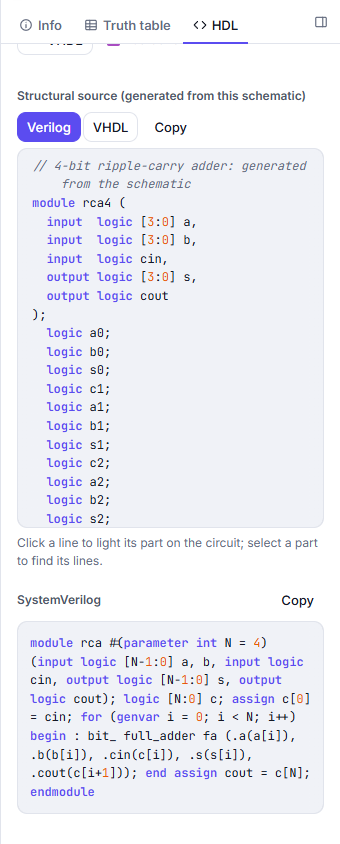
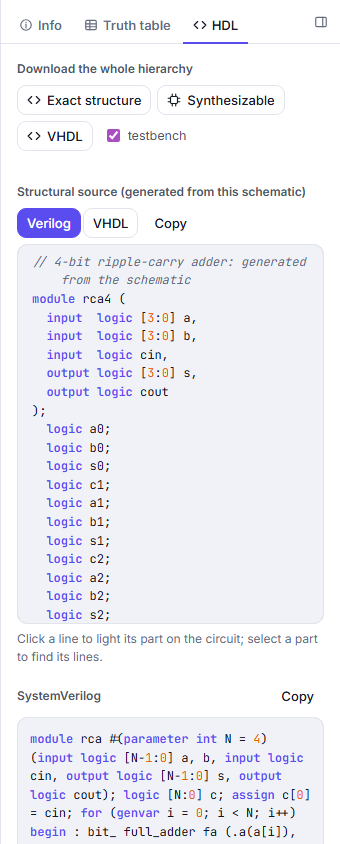
Manual, workbench: the HDL tab as it is (structural source, SystemVerilog, download buttons)

diff --git a/docs/manual/workbench.md b/docs/manual/workbench.md
@@ -302,8 +302,12 @@ Under **Info**:
 ### Read or copy its HDL
 
 1. Click **HDL** in the inspector.
-2. Choose **Exact structure** (gate for gate, as drawn) or **Synthesizable**, and **Verilog** or **VHDL**.
-3. Click **Copy** to put it on the clipboard.
+2. **Structural source (generated from this schematic)** is the part's netlist as Verilog, or click **VHDL**. Click a
+   line to light its part on the circuit, or select a part to find its lines. **Copy** puts it on the clipboard.
+3. Under it, some parts also have a hand-written **SystemVerilog** version, with its own **Copy**.
+4. To save the part with every module under it in one file, use the buttons under **Download the whole hierarchy**:
+   **Exact structure** (gate for gate, as drawn), **Synthesizable** (for synthesis tools) or **VHDL**. With
+   **testbench** ticked (it is, to begin with), a self-checking testbench comes with it.
 
 ![The HDL tab](img/workbench/19-hdl.png)
 
